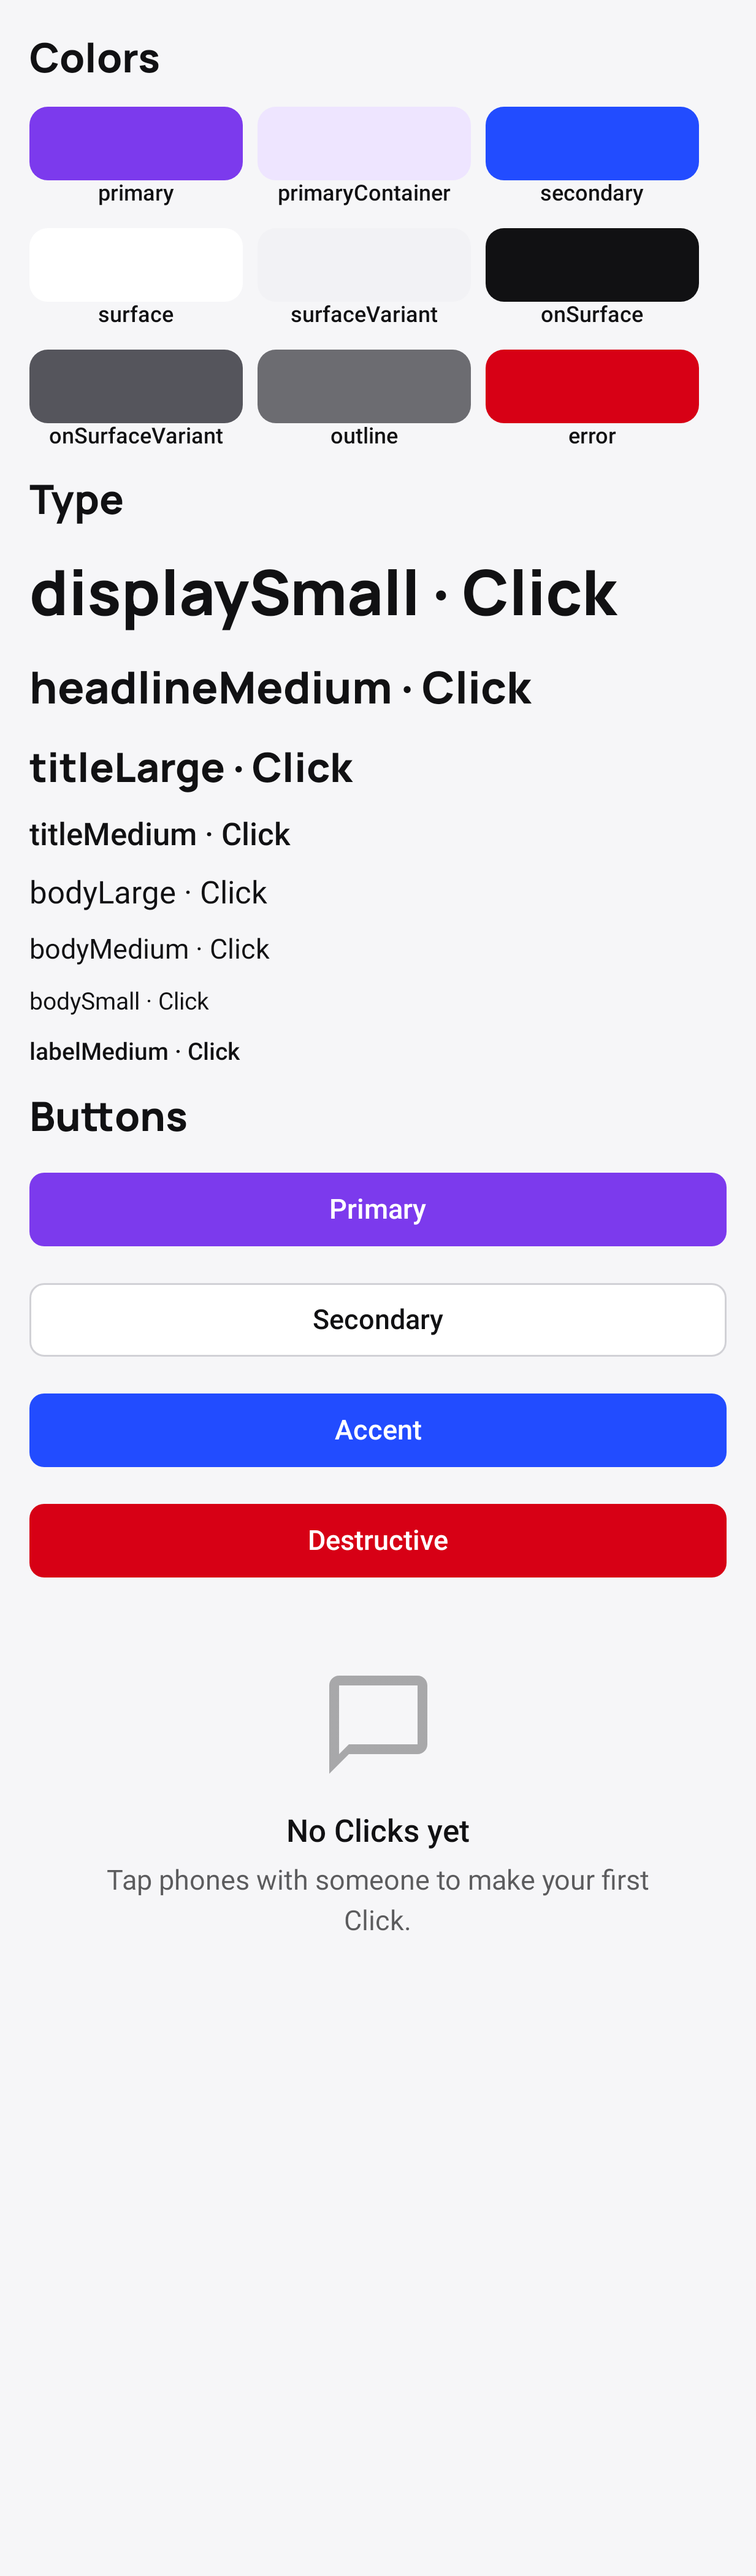
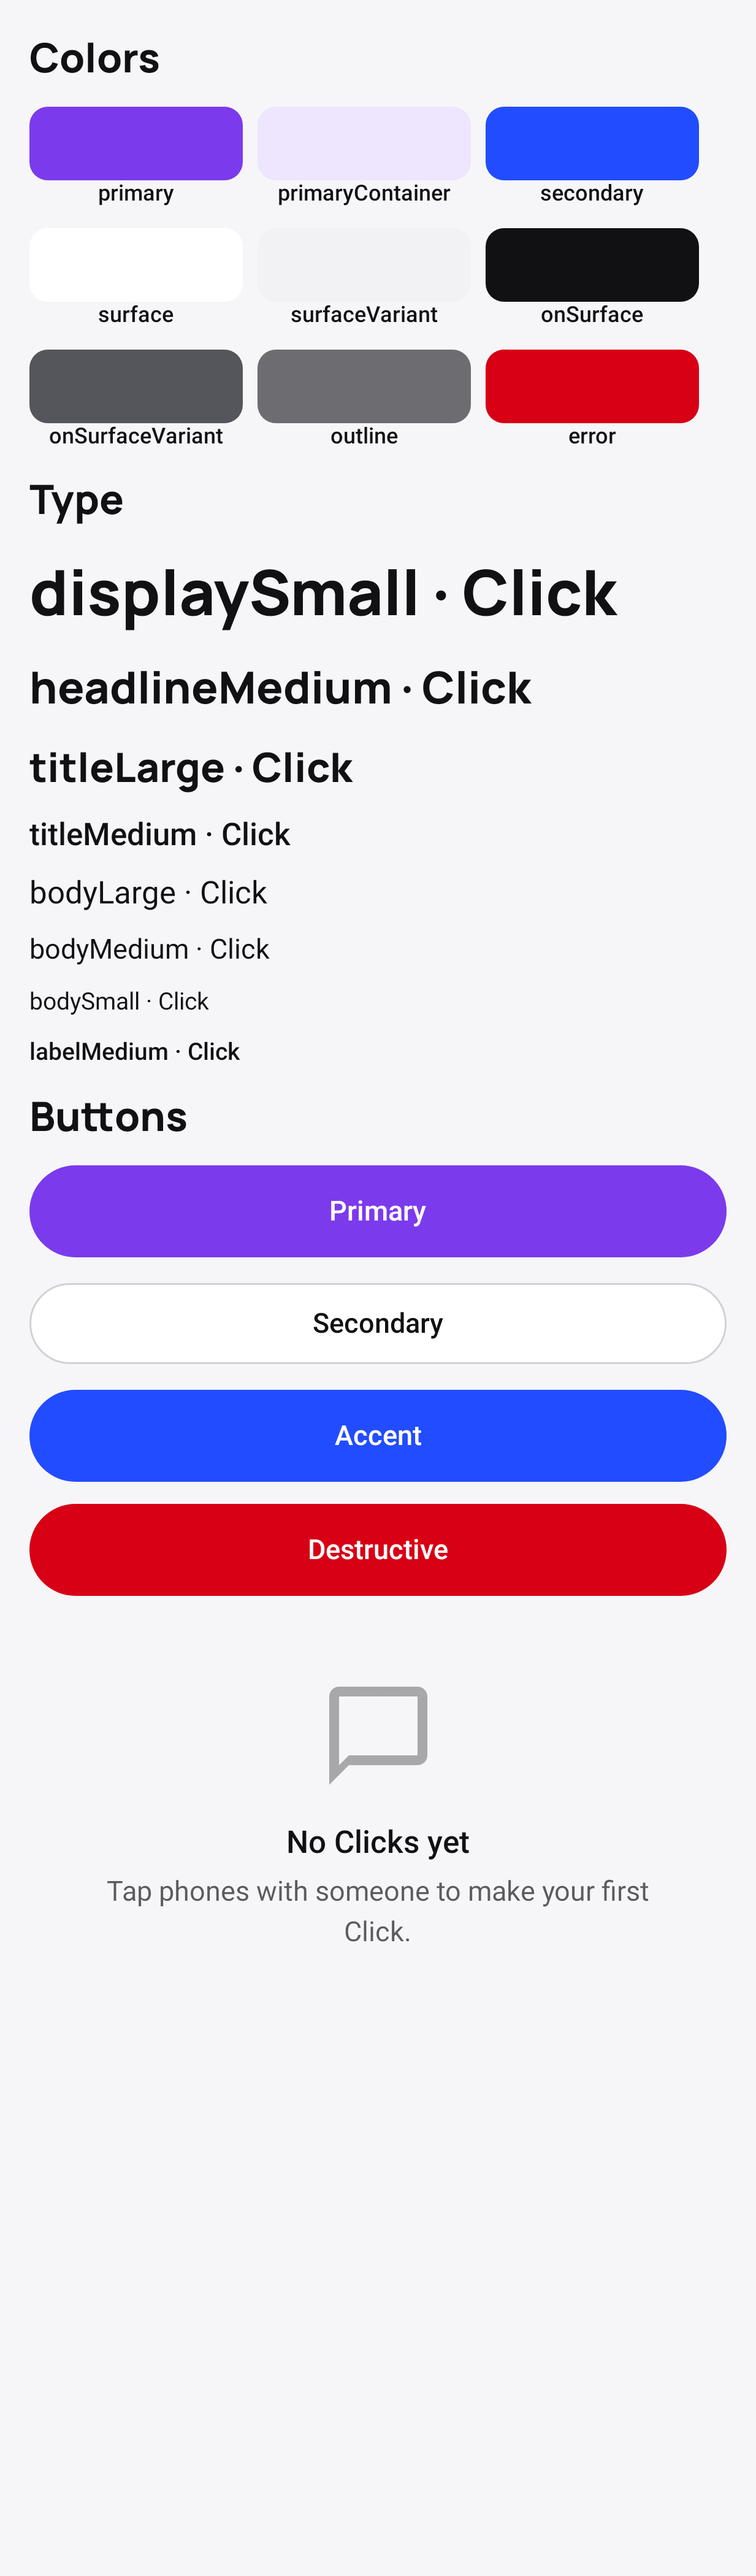
Design sweep: capsule buttons, surface cards, 16 dp gutter, motion tokens
Follow-ups from the shape/spacing token PR (#167):
- ClickButton uses a capsule with iOS minimum heights (50 filled, 44 secondary).
- Shared card radius (PlatformStyle.cardCornerRadius, GlassCornerRadius) is ClickRadius.surface (26).
- ClickScreenSpacing.Horizontal is ClickSpacing.screenGutter (16).
- MotionTokens durations use the shared 120/160/240/360 scale, press scale 0.97,
  press spring from iOS ClickMotion.press.
- Fix two Android lint errors (MissingPermission in LocalReminderWorker, NewApi in MapView).
- Re-record the design-system screenshot baselines.

Claude-Session: https://claude.ai/code/session_014RJayqsnMRxsxn4CwuXC9w

Changed region(s): [[0.0308, 0.4367, 0.9554, 0.7486], [0.8013, 0.7174, 0.8629, 0.7486], [0.0308, 0.4367, 0.0616, 0.4679]]

diff --git a/composeApp/src/commonTest/kotlin/compose/project/click/click/ui/theme/MotionTokensTest.kt b/composeApp/src/commonTest/kotlin/compose/project/click/click/ui/theme/MotionTokensTest.kt
@@ -2,28 +2,35 @@ package compose.project.click.click.ui.theme
 
 import androidx.compose.animation.core.Spring
 import androidx.compose.ui.unit.dp
+import kotlin.math.PI
+import kotlin.math.pow
 import kotlin.test.Test
 import kotlin.test.assertEquals
-import kotlin.test.assertTrue
 
 class MotionTokensTest {
     @Test
-    fun durationTokens_matchLaunchVocabulary() {
-        assertEquals(90, MotionTokens.Duration.Instant)
-        assertEquals(140, MotionTokens.Duration.Fast)
-        assertEquals(190, MotionTokens.Duration.Standard)
-        assertEquals(240, MotionTokens.Duration.Deliberate)
-        assertEquals(320, MotionTokens.Duration.Emphasized)
+    fun durationTokens_matchSharedScale() {
+        assertEquals(120, MotionTokens.Duration.Instant)
+        assertEquals(160, MotionTokens.Duration.Fast)
+        assertEquals(240, MotionTokens.Duration.Standard)
+        assertEquals(360, MotionTokens.Duration.Deliberate)
+        assertEquals(500, MotionTokens.Duration.Emphasized)
     }
 
     @Test
-    fun pressScale_isRestrainedByControlSize() {
-        assertEquals(0.95f, MotionTokens.PressScale.IconPressedScale)
-        assertEquals(0.98f, MotionTokens.PressScale.ButtonPressedScale)
-        assertEquals(0.985f, MotionTokens.PressScale.CardPressedScale)
-        assertTrue(MotionTokens.PressScale.CardPressedScale > MotionTokens.PressScale.ButtonPressedScale)
-        assertTrue(MotionTokens.PressScale.ButtonPressedScale > MotionTokens.PressScale.IconPressedScale)
-        assertEquals(Spring.DampingRatioNoBouncy, MotionTokens.PressScale.DampingRatio)
+    fun pressScale_isOneValueForEveryControl() {
+        assertEquals(0.97f, MotionTokens.PressScale.Scale)
+        assertEquals(0.97f, MotionTokens.PressScale.IconPressedScale)
+        assertEquals(0.97f, MotionTokens.PressScale.ButtonPressedScale)
+        assertEquals(0.97f, MotionTokens.PressScale.CardPressedScale)
+    }
+
+    @Test
+    fun pressSpring_matchesIosClickMotionPress() {
+        assertEquals(0.7f, MotionTokens.PressScale.DampingRatio)
+        val response = MotionTokens.PressScale.IosResponseSeconds
+        val expectedStiffness = (2.0 * PI / response).pow(2).toFloat()
+        assertEquals(expectedStiffness, MotionTokens.PressScale.Stiffness, absoluteTolerance = 0.5f)
     }
 
     @Test

diff --git a/composeApp/src/commonMain/kotlin/compose/project/click/click/ui/components/AdaptiveCard.kt b/composeApp/src/commonMain/kotlin/compose/project/click/click/ui/components/AdaptiveCard.kt
@@ -115,6 +115,10 @@ enum class ClickButtonVariant {
 /**
  * Canonical action button. Screens must use this instead of one-off [Button] styling.
  * [AdaptiveButton] remains as the primary-variant alias.
+ *
+ * Capsule-shaped with iOS minimum heights (`ClickPrimaryButtonStyle` 50 pt for filled actions,
+ * `ClickSecondaryButtonStyle` 44 pt for the neutral variant; `Click/DesignSystem/Components/ButtonStyles.swift`).
+ * An explicit height from the caller's [modifier] still wins.
  */
 @Composable
 fun ClickButton(
@@ -125,7 +129,6 @@ fun ClickButton(
     content: @Composable RowScope.() -> Unit,
 ) {
     val interactionSource = remember { MutableInteractionSource() }
-    val style = LocalPlatformStyle.current
     val colors =
         when (variant) {
             ClickButtonVariant.Primary ->
@@ -166,7 +169,10 @@ fun ClickButton(
         }
     Button(
         onClick = onClick,
-        modifier = modifier.platformPressScale(interactionSource, MotionTokens.PressScale.ButtonPressedScale),
+        modifier =
+            modifier
+                .heightIn(min = clickButtonMinHeight(variant))
+                .platformPressScale(interactionSource, MotionTokens.PressScale.ButtonPressedScale),
         enabled = enabled,
         interactionSource = interactionSource,
         colors = colors,
@@ -177,10 +183,20 @@ fun ClickButton(
                 focusedElevation = 0.dp,
             ),
         border = border,
-        shape = RoundedCornerShape(style.buttonCornerRadius),
+        shape = LocalClickShapes.current.capsule,
         content = content,
     )
 }
+
+/** Minimum height per [ClickButtonVariant]: the neutral variant matches iOS secondary (44), filled ones iOS primary (50). */
+internal fun clickButtonMinHeight(variant: ClickButtonVariant): Dp =
+    when (variant) {
+        ClickButtonVariant.Secondary -> ClickMetrics.secondaryActionHeight
+        ClickButtonVariant.Primary,
+        ClickButtonVariant.Accent,
+        ClickButtonVariant.Destructive,
+        -> ClickMetrics.primaryActionHeight
+    }
 
 @Composable
 fun AdaptiveButton(

diff --git a/composeApp/src/commonMain/kotlin/compose/project/click/click/ui/theme/MotionTokens.kt b/composeApp/src/commonMain/kotlin/compose/project/click/click/ui/theme/MotionTokens.kt
@@ -30,12 +30,18 @@ import androidx.compose.ui.unit.dp
  * or an immediate state change.
  */
 object MotionTokens {
+    /**
+     * Tween durations (ms). iOS `ClickMotion` (`Click/DesignSystem/Motion.swift`) is spring-based
+     * and has no duration scale, so the shared cross-platform scale from web `DESIGN.md`
+     * (`--d-press` 120, `--d-fast` 160, `--d-base` 240, `--d-slow` 360) is used, with
+     * [Emphasized] taken from the response of iOS `ClickMotion.reveal` (0.5 s).
+     */
     object Duration {
-        const val Instant = 90
-        const val Fast = 140
-        const val Standard = 190
-        const val Deliberate = 240
-        const val Emphasized = 320
+        const val Instant = 120
+        const val Fast = 160
+        const val Standard = 240
+        const val Deliberate = 360
+        const val Emphasized = 500
     }
 
     /** Live-state pulse cycles only — never use for ordinary content transitions. */
@@ -45,13 +51,23 @@ object MotionTokens {
         const val Shimmer = 900
     }
 
+    /**
+     * One press scale for every control size (web `.press`, scale 0.97; the same 0.97 iOS uses for
+     * its press-in transitions). The three names are kept so call sites read by role.
+     *
+     * The spring is iOS `ClickMotion.press` (`spring(response: 0.2, dampingFraction: 0.7)`), with
+     * stiffness = (2π / response)² for unit mass.
+     */
     object PressScale {
-        const val IconPressedScale = 0.95f
-        const val ButtonPressedScale = 0.98f
-        const val CardPressedScale = 0.985f
+        const val Scale = 0.97f
+        const val IconPressedScale = Scale
+        const val ButtonPressedScale = Scale
+        const val CardPressedScale = Scale
 
-        const val DampingRatio = Spring.DampingRatioNoBouncy
-        const val Stiffness = Spring.StiffnessMedium
+        /** iOS `ClickMotion.press` response, in seconds. */
+        const val IosResponseSeconds = 0.2f
+        const val DampingRatio = 0.7f
+        const val Stiffness = 986.96f
     }
 
     object Content {

diff --git a/composeApp/src/commonTest/kotlin/compose/project/click/click/ui/theme/ShapeSpacingTokensTest.kt b/composeApp/src/commonTest/kotlin/compose/project/click/click/ui/theme/ShapeSpacingTokensTest.kt
@@ -2,8 +2,12 @@ package compose.project.click.click.ui.theme
 
 import androidx.compose.foundation.shape.RoundedCornerShape
 import androidx.compose.ui.unit.dp
+import compose.project.click.click.ui.components.AppScreenDefaults
+import compose.project.click.click.ui.components.ClickButtonVariant
 import compose.project.click.click.ui.components.ClickFieldTokens
 import compose.project.click.click.ui.components.ClickScreenSpacing
+import compose.project.click.click.ui.components.GlassCornerRadius
+import compose.project.click.click.ui.components.clickButtonMinHeight
 import kotlin.test.Test
 import kotlin.test.assertEquals
 
@@ -49,5 +53,32 @@ class ShapeSpacingTokensTest {
         assertEquals(ClickSpacing.lg, ClickScreenSpacing.Section)
         assertEquals(ClickSpacing.sm, ClickScreenSpacing.RowGap)
         assertEquals(ClickSpacing.sm, ClickScreenSpacing.Compact)
+    }
+
+    @Test
+    fun metrics_matchIosClickMetrics() {
+        assertEquals(50.dp, ClickMetrics.primaryActionHeight)
+        assertEquals(44.dp, ClickMetrics.secondaryActionHeight)
+    }
+
+    @Test
+    fun clickButton_usesIosActionHeights() {
+        assertEquals(50.dp, clickButtonMinHeight(ClickButtonVariant.Primary))
+        assertEquals(50.dp, clickButtonMinHeight(ClickButtonVariant.Accent))
+        assertEquals(50.dp, clickButtonMinHeight(ClickButtonVariant.Destructive))
+        assertEquals(44.dp, clickButtonMinHeight(ClickButtonVariant.Secondary))
+    }
+
+    @Test
+    fun sharedCards_useSurfaceRadius() {
+        assertEquals(ClickRadius.surface, androidPlatformStyle.cardCornerRadius)
+        assertEquals(ClickRadius.surface, GlassCornerRadius)
+    }
+
+    @Test
+    fun screenGutter_isIosGutter() {
+        assertEquals(16.dp, ClickScreenSpacing.Horizontal)
+        assertEquals(ClickSpacing.screenGutter, ClickScreenSpacing.Horizontal)
+        assertEquals(ClickSpacing.screenGutter, AppScreenDefaults.HorizontalPadding)
     }
 }

diff --git a/composeApp/src/commonMain/kotlin/compose/project/click/click/ui/components/ClickLaunchPrimitives.kt b/composeApp/src/commonMain/kotlin/compose/project/click/click/ui/components/ClickLaunchPrimitives.kt
@@ -53,15 +53,16 @@ import compose.project.click.click.ui.theme.clickBorderWidth // pragma: allowlis
 import compose.project.click.click.ui.theme.clickCardSurface // pragma: allowlist secret
 
 /**
- * Shared gutters for launch surfaces. Values wrap the existing 8pt scale and the native
- * large-title leading inset (20pt) so tab roots and [AppScreenScaffold] stay aligned.
+ * Shared gutters for launch surfaces. Values wrap the [ClickSpacing] 4 dp rhythm so tab roots
+ * and [AppScreenScaffold] stay aligned with iOS (`ClickSpacing.screenGutter` in
+ * `Click/DesignSystem/Spacing.swift`).
  *
  * Use [Horizontal] instead of a screen-local `20.dp` / `16.dp` constant.
  * Purple, typefaces, and radii stay in [compose.project.click.click.ui.theme].
  */
 object ClickScreenSpacing {
-    /** Tab-root / sheet gutter — matches native title leading, not chat bubble inset. */
-    val Horizontal = 20.dp
+    /** Tab-root / sheet gutter; iOS `ClickSpacing.screenGutter` (16). */
+    val Horizontal = ClickSpacing.screenGutter
 
     /** Space between major sections (greeting → hero, list → composer). */
     val Section = ClickSpacing.lg
@@ -340,7 +341,7 @@ fun ClickContentCard(
     onClick: (() -> Unit)? = null,
     showBorder: Boolean = false,
     containerColor: Color = clickCardSurface(),
-    contentPadding: Dp = ClickScreenSpacing.Horizontal,
+    contentPadding: Dp = ClickSpacing.surfacePadding,
     content: @Composable ColumnScope.() -> Unit,
 ) {
     val radius = LocalPlatformStyle.current.cardCornerRadius

diff --git a/composeApp/src/androidMain/kotlin/compose/project/click/click/notifications/LocalReminderScheduler.android.kt b/composeApp/src/androidMain/kotlin/compose/project/click/click/notifications/LocalReminderScheduler.android.kt
@@ -141,7 +141,19 @@ class LocalReminderWorker(
                 .setAutoCancel(true)
                 .setContentIntent(pendingIntent)
                 .build()
-        runCatching { NotificationManagerCompat.from(context).notify(id, 0, notification) }
+        // Check right at the call site (lint cannot see through canPostNotifications) — the user can
+        // revoke POST_NOTIFICATIONS while the work is queued, so a late SecurityException is handled too.
+        if (
+            Build.VERSION.SDK_INT >= Build.VERSION_CODES.TIRAMISU &&
+            ActivityCompat.checkSelfPermission(context, Manifest.permission.POST_NOTIFICATIONS) != PackageManager.PERMISSION_GRANTED
+        ) {
+            return Result.success()
+        }
+        try {
+            NotificationManagerCompat.from(context).notify(id, 0, notification)
+        } catch (e: SecurityException) {
+            // Permission revoked between the check and the post; drop this reminder quietly.
+        }
         return Result.success()
     }
 }

diff --git a/composeApp/src/androidMain/kotlin/compose/project/click/click/ui/components/MapView.android.kt b/composeApp/src/androidMain/kotlin/compose/project/click/click/ui/components/MapView.android.kt
@@ -11,6 +11,7 @@ import android.graphics.Paint
 import android.graphics.Path
 import android.graphics.Rect
 import android.graphics.RectF
+import android.os.Build
 import androidx.compose.foundation.layout.Box
 import androidx.compose.foundation.layout.fillMaxSize
 import androidx.compose.runtime.*
@@ -181,7 +182,7 @@ actual fun PlatformMap(
                     } ?: return@forEach
                 // Software copy — Google Maps markers reject hardware bitmaps.
                 val bmp =
-                    if (src.config == Bitmap.Config.HARDWARE) {
+                    if (Build.VERSION.SDK_INT >= Build.VERSION_CODES.O && src.config == Bitmap.Config.HARDWARE) {
                         src.copy(Bitmap.Config.ARGB_8888, false) ?: return@forEach
                     } else {
                         src.copy(Bitmap.Config.ARGB_8888, false) ?: src

diff --git a/composeApp/src/commonMain/kotlin/compose/project/click/click/ui/theme/PlatformTheme.kt b/composeApp/src/commonMain/kotlin/compose/project/click/click/ui/theme/PlatformTheme.kt
@@ -45,7 +45,7 @@ data class PlatformStyle(
 val LocalPlatformStyle =
     staticCompositionLocalOf {
         PlatformStyle(
-            cardCornerRadius = 16.dp,
+            cardCornerRadius = ClickRadius.surface,
             compactCardCornerRadius = 8.dp,
             buttonCornerRadius = 8.dp,
             cardBorderWidth = 1.dp,
@@ -99,9 +99,9 @@ fun clickSheetOnSurface(): Color = MaterialTheme.colorScheme.onSurface
 @ReadOnlyComposable
 fun clickSheetOnSurfaceMuted(): Color = MaterialTheme.colorScheme.onSurfaceVariant
 
-private val androidPlatformStyle =
+internal val androidPlatformStyle =
     PlatformStyle(
-        cardCornerRadius = 16.dp,
+        cardCornerRadius = ClickRadius.surface,
         compactCardCornerRadius = 8.dp,
         buttonCornerRadius = 8.dp,
         cardBorderWidth = 1.dp,

diff --git a/composeApp/src/commonMain/kotlin/compose/project/click/click/ui/theme/Shapes.kt b/composeApp/src/commonMain/kotlin/compose/project/click/click/ui/theme/Shapes.kt
@@ -50,6 +50,20 @@ object ClickRadius {
 }
 
 /**
+ * Control metrics. Heights are minimums so larger font scales can grow content.
+ *
+ * Mirrors iOS `ClickMetrics` in `Click/DesignSystem/Spacing.swift`, used by
+ * `ClickPrimaryButtonStyle` / `ClickSecondaryButtonStyle` in `Components/ButtonStyles.swift`.
+ */
+object ClickMetrics {
+    /** Minimum height of the single strongly filled action in a region. */
+    val primaryActionHeight = 50.dp
+
+    /** Minimum height of a neutral secondary action. */
+    val secondaryActionHeight = 44.dp
+}
+
+/**
  * Ready-made shapes for each [ClickRadius] role plus a capsule. Read through [LocalClickShapes]
  * (provided by [PlatformThemeProvider]) the same way [LocalPlatformStyle] is read.
  */

diff --git a/composeApp/src/commonTest/kotlin/compose/project/click/click/ui/components/ClickLaunchPrimitivesTest.kt b/composeApp/src/commonTest/kotlin/compose/project/click/click/ui/components/ClickLaunchPrimitivesTest.kt
@@ -6,8 +6,8 @@ import kotlin.test.assertEquals
 
 class ClickLaunchPrimitivesTest {
     @Test
-    fun screenSpacing_matchesNativeTitleGutterAndEightPtScale() {
-        assertEquals(20.dp, ClickScreenSpacing.Horizontal)
+    fun screenSpacing_matchesIosGutterAndEightPtScale() {
+        assertEquals(16.dp, ClickScreenSpacing.Horizontal)
         assertEquals(24.dp, ClickScreenSpacing.Section)
         assertEquals(8.dp, ClickScreenSpacing.RowGap)
         assertEquals(8.dp, ClickScreenSpacing.Compact)

diff --git a/composeApp/src/commonMain/kotlin/compose/project/click/click/ui/components/GlassCard.kt b/composeApp/src/commonMain/kotlin/compose/project/click/click/ui/components/GlassCard.kt
@@ -32,8 +32,8 @@ private fun platformCardShape(): RoundedCornerShape {
 @Composable
 private fun platformBorderWidth(): Dp = LocalPlatformStyle.current.cardBorderWidth
 
-/** Legacy name — Functional Clarity uses 16.dp card corners. */
-val GlassCornerRadius: Dp = 16.dp
+/** Legacy name for the shared card corner; iOS `ClickRadius.surface` (26). */
+val GlassCornerRadius: Dp = ClickRadius.surface
 val GlassCardShape = RoundedCornerShape(GlassCornerRadius)
 
 @Composable

diff --git a/composeApp/src/androidUnitTest/kotlin/compose/project/click/click/ui/components/GlassCardTest.kt b/composeApp/src/androidUnitTest/kotlin/compose/project/click/click/ui/components/GlassCardTest.kt
@@ -7,10 +7,9 @@ import kotlin.test.assertEquals
  * JVM unit tests for Functional Clarity card/sheet tokens (no Compose UI harness required).
  */
 class GlassCardTest {
-
     @Test
     fun glassCornerRadius_matchesDesignToken() {
-        assertEquals(16f, GlassCornerRadius.value)
+        assertEquals(26f, GlassCornerRadius.value)
     }
 
     @Test
